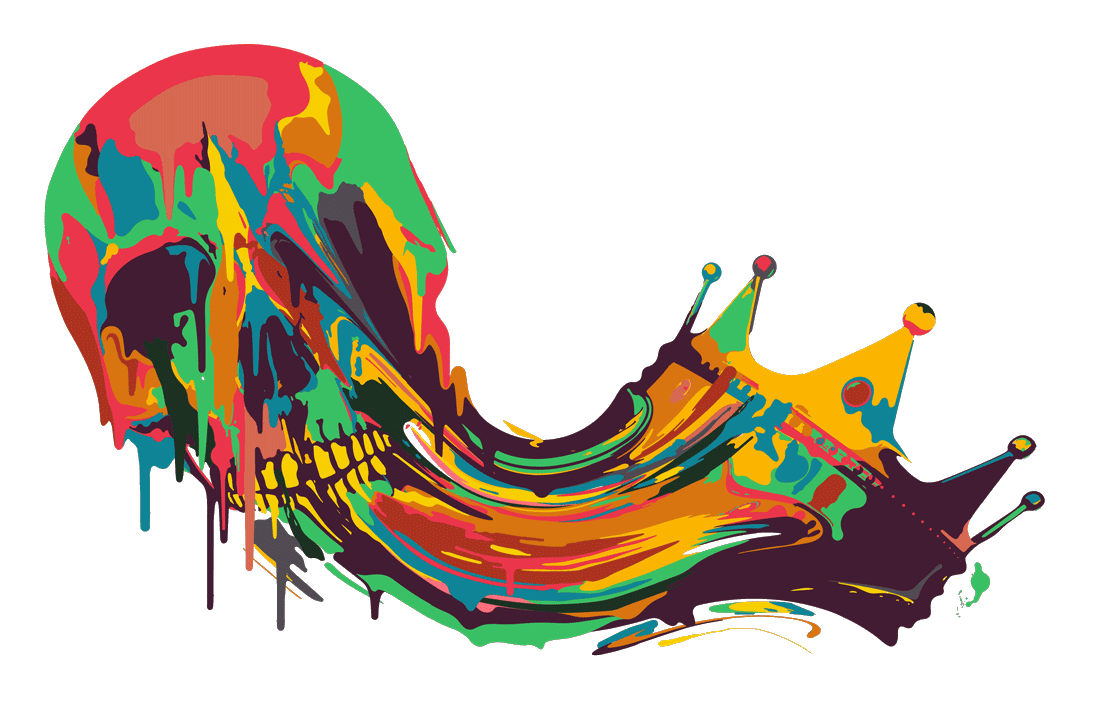
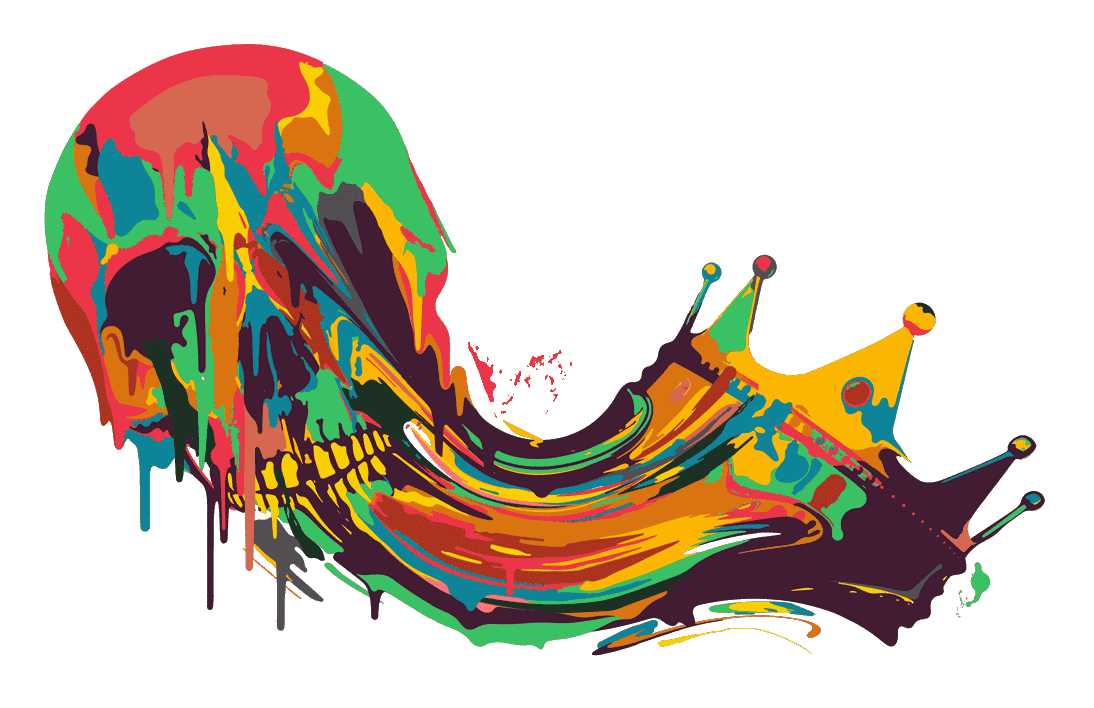
Hamlet Drips

diff --git a/index.html b/index.html
@@ -298,20 +298,6 @@
 				<iframe id="trailer-video1"  src="//www.youtube.com/embed/_POGKOhwKkk" frameborder="0" allowfullscreen></iframe>
 
 				<div class="trailer-info">
-					<!--
-					<div id="trailer_nav">
-						<a class="control" id="prev" href="#trailer-2-preview">
-							<svg xmlns="http://www.w3.org/2000/svg" xmlns:xlink="http://www.w3.org/1999/xlink" height="100%" width="100%" viewBox="0 0 30 29" enable-background="new 0 0 30 29" xml:space="preserve">
-								<path d="M30,0.8v27.4c0,0.5-0.6,0.8-1,0.6L0.4,15.1c-0.5-0.2-0.5-1,0-1.2L29,0.2C29.4,0,30,0.3,30,0.8z"/>
-							</svg>
-						</a>
-						<a id="control" id="next" href="#trailer-2-preview">
-							<svg xmlns="http://www.w3.org/2000/svg" xmlns:xlink="http://www.w3.org/1999/xlink" height="100%" width="100%" viewBox="0 0 30 29" enable-background="new 0 0 30 29" xml:space="preserve">
-								<path d="M0,28.2V0.8C0,0.3,0.6,0,1,0.2l28.6,13.7c0.5,0.2,0.5,1,0,1.2L1,28.8C0.6,29,0,28.7,0,28.2z"/>
-							</svg>
-						</a>
-					</div>
-					-->
 
 					<p class="left">1/2</p>
 					<p class="left">&ldquo;FORT WORTH OPERA... WHERE OPERA IS BREATHTAKING.&rdquo;</p>
@@ -332,20 +318,6 @@
 				<iframe id="trailer-video2"  src="//www.youtube.com/embed/MPv2AC_2czs" frameborder="0" allowfullscreen></iframe>
 
 				<div class="trailer-info">
-					<!--
-					<div id="trailer_nav">
-						<a class="control" id="prev" href="#trailer-1-preview">
-							<svg xmlns="http://www.w3.org/2000/svg" xmlns:xlink="http://www.w3.org/1999/xlink" height="100%" width="100%" viewBox="0 0 30 29" enable-background="new 0 0 30 29" xml:space="preserve">
-								<path d="M30,0.8v27.4c0,0.5-0.6,0.8-1,0.6L0.4,15.1c-0.5-0.2-0.5-1,0-1.2L29,0.2C29.4,0,30,0.3,30,0.8z"/>
-							</svg>
-						</a>
-						<a id="control" id="next" href="#trailer-1-preview">
-							<svg xmlns="http://www.w3.org/2000/svg" xmlns:xlink="http://www.w3.org/1999/xlink" height="100%" width="100%" viewBox="0 0 30 29" enable-background="new 0 0 30 29" xml:space="preserve">
-								<path d="M0,28.2V0.8C0,0.3,0.6,0,1,0.2l28.6,13.7c0.5,0.2,0.5,1,0,1.2L1,28.8C0.6,29,0,28.7,0,28.2z"/>
-							</svg>
-						</a>
-					</div>
-					-->
 
 					<p class="left">2/2</p>
 					<p class="left">&ldquo;A TIME WORTH WAITING FOR...&rdquo;</p>
@@ -368,20 +340,6 @@
 				<iframe id="trailer-video3"  src="//player.vimeo.com/video/53783631" frameborder="0" allowfullscreen></iframe>
 
 				<div class="trailer-info">
-					<!--
-					<div id="trailer_nav">
-						<a class="control" id="prev" href="#trailer-1-preview">
-							<svg xmlns="http://www.w3.org/2000/svg" xmlns:xlink="http://www.w3.org/1999/xlink" height="100%" width="100%" viewBox="0 0 30 29" enable-background="new 0 0 30 29" xml:space="preserve">
-								<path d="M30,0.8v27.4c0,0.5-0.6,0.8-1,0.6L0.4,15.1c-0.5-0.2-0.5-1,0-1.2L29,0.2C29.4,0,30,0.3,30,0.8z"/>
-							</svg>
-						</a>
-						<a id="control" id="next" href="#trailer-1-preview">
-							<svg xmlns="http://www.w3.org/2000/svg" xmlns:xlink="http://www.w3.org/1999/xlink" height="100%" width="100%" viewBox="0 0 30 29" enable-background="new 0 0 30 29" xml:space="preserve">
-								<path d="M0,28.2V0.8C0,0.3,0.6,0,1,0.2l28.6,13.7c0.5,0.2,0.5,1,0,1.2L1,28.8C0.6,29,0,28.7,0,28.2z"/>
-							</svg>
-						</a>
-					</div>
-					-->
 
 					<p class="left"></p>
 					<p class="left">&ldquo;Dog Days&rdquo;</p>
@@ -553,8 +511,6 @@
 			<img class="px-traviata_img" id="px-traviata-lefthand" src="i/px-traviata_lefthand.png" />
 			<img class="px-traviata_img" id="px-traviata-righthand" src="i/px-traviata_righthand.png" />
 
-			<img class="px-traviata_img" id="px-traviata-butterfly" src="i/px-traviata_butterfly.png" />
-
 			<img class="px-traviata_img" id="px-traviata-leftcurtain" src="i/px-traviata_leftcurtain.png" />
 			<img class="px-traviata_img" id="px-traviata-rightcurtain" src="i/px-traviata_rightcurtain.png" />
 
@@ -618,8 +574,8 @@
 
 		<div class="px-container" id="px-hamlet">
 
-			<img class="px-hamlet_img" id="px-hamlet-splatter" src="i/px-hamlet_splatter.png" />
-			<img class="px-hamlet_img" id="px-hamlet-main" src="i/px-hamlet_main.gif" />
+			<!--img class="px-hamlet_img" id="px-hamlet-splatter" src="i/px-hamlet_splatter.png" /-->
+			<img class="px-hamlet_img" id="px-hamlet-main" src="i/px-hamlet_main.png" />
 			<img class="px-hamlet_img" id="px-hamlet-drips" src="i/px-hamlet_drips.png" />
 
 
@@ -628,6 +584,7 @@
 
 
 			<img class="px-hamlet_img" id="px-hamlet-main-top" src="i/px-hamlet_main.png" />
+			<img class="px-hamlet_img" id="px-hamlet-drips-top" src="i/px-hamlet_drips.png" />
 		</div>
 
 		<div class="container">
@@ -734,7 +691,6 @@
 				<li><a href="http://www.fwopera.org/Discover-Opera/Education/Middle-High-School/">STUDENT NIGHT AT
 THE OPERA</a></li>
 				<li><a href="http://www.fwopera.org/Education/">EDUCATION</a></li>
-				<li><a href="http://www.fwopera.org/Performances/LaTraviata/">PRODUCTION PHOTOS</a></li>
 			</ul>
 
 			<div>
@@ -766,7 +722,7 @@ THE OPERA</a></li>
 <script src="http://cdnjs.cloudflare.com/ajax/libs/gsap/latest/TweenMax.min.js"></script>
 <script src="http://cdnjs.cloudflare.com/ajax/libs/gsap/latest/plugins/ScrollToPlugin.min.js"></script>
 
-<script src="js/scripts.js"></script>
+<script src="js/functions.js"></script>
 
 <!-- Asynchronous google analytics; this is the official snippet.
 	 Replace UA-XXXXXX-XX with your site's ID and uncomment to enable.

diff --git a/js/functions.js b/js/functions.js
@@ -311,21 +311,27 @@
 
 			//Hamlet
 				var skull = -(scrolled-3199) * .2 + 'px';
+				var skulltop = -(scrolled-3199) * .0625 + 'px';
+				var driptop = -(scrolled-3199) * .125 + 'px';
 				var splatter = (((scrolled-3199)*.125)+111) + 'px';
 
 				if (scrolled <= 3630) {
-					$('div.px-container #px-hamlet-main, div.px-container #px-hamlet-splatter').css('transform', 'translate3d( 0, '+ skull +', 0)');
-					$('div.px-container #px-hamlet-splatter').css('transform', 'translate3d( 0, '+ -(scrolled-3199) * .35 + 'px' +', 0) rotate(' + (scrolled-3199) * .05 + 'deg)');
-					$('div.px-container #px-hamlet-drips').css('transform', 'translate3d( 0, '+ -(scrolled-3199) * .05 + 'px' +', 0)');
+					$('div.px-container #px-hamlet-main').css('transform', 'translate3d( 0, '+ skull +', 0)');
+					//$('div.px-container #px-hamlet-splatter').css('transform', 'translate3d( 0, '+ -(scrolled-3199) * .35 + 'px' +', 0) rotate(' + (scrolled-3199) * .05 + 'deg)');
+					$('div.px-container #px-hamlet-drips').css('transform', 'translate3d( 0, '+ -(scrolled-3199) * .075 + 'px' +', 0)');
 
-					$('div.px-container #px-hamlet-splatter').css('height', splatter );
+
+					$('div.px-container #px-hamlet-main-top').css('transform', 'translate3d( 0, '+ skulltop +', 0)');
+					$('div.px-container #px-hamlet-drips-top').css('transform', 'translate3d( 0, '+ (scrolled-3199) * .1 + 'px' +', 0)');
+
+					//$('div.px-container #px-hamlet-splatter').css('height', splatter );
 						//('top',(60+(-(scrolled-3199)*.2)) + 'px');
 					//$('div.px-container #px-hamlet-main').css('background-position','0px ' + (-((scrolled-3199)*.65)) + 'px');
 					
 					//$('div.px-container #px-hamlet-main').css('background-size', (708+((scrolled-3199)*.7)) + 'px ' + (708+((scrolled-3199)*.7)) + 'px');
 
 					$('div.px-container #px-hamlet-main-bottom').css('transform', 'rotate(' + (-155+((scrolled-3299)*.0125)) + 'deg)');
-					$('div.px-container #px-hamlet-main-top').css('transform', 'rotate(' + ((scrolled-3299)*.0125) + 'deg)');
+					//$('div.px-container #px-hamlet-main-top').css('transform', 'rotate(' + ((scrolled-3299)*.0125) + 'deg)');
 				}
 
 

diff --git a/css/style.css b/css/style.css
@@ -1438,11 +1438,11 @@ footer#festival_info div#go-to-top a:hover{color:#e3e2da;}
 		bottom:0px;
 	}
 	div.px-container img#px-traviata-horns{
-		height: 380px;
+		height: 708px;
 		position: absolute;
-		margin-left:-240px;
+		margin-left:-345px;
 		left: 50%;
-		bottom:-40px;
+		bottom:-100px;
 	}
 	div.px-container img#px-traviata-middle{
 		height: 360px;
@@ -1478,8 +1478,8 @@ footer#festival_info div#go-to-top a:hover{color:#e3e2da;}
 		left:50%;
 		bottom:-220px;
 
-		background: url(../i/px-traviata_horns.png) no-repeat center 250px;
-		background-size: 580px;
+		background: url(../i/px-traviata_horns.png) no-repeat center 20px;
+		background-size: 590px 708px;
 	}
 
 	/* Hamlet */
@@ -1504,6 +1504,13 @@ footer#festival_info div#go-to-top a:hover{color:#e3e2da;}
 		position: absolute;
 		right: -300px;
 		top:-500px;
+	}
+	div.px-container img#px-hamlet-drips-top{
+		height: 708px;
+		width: 1094px;
+		position: absolute;
+		top:-500px;
+		right:-300px;
 	}
 
 	div.px-container img#px-hamlet-main{
